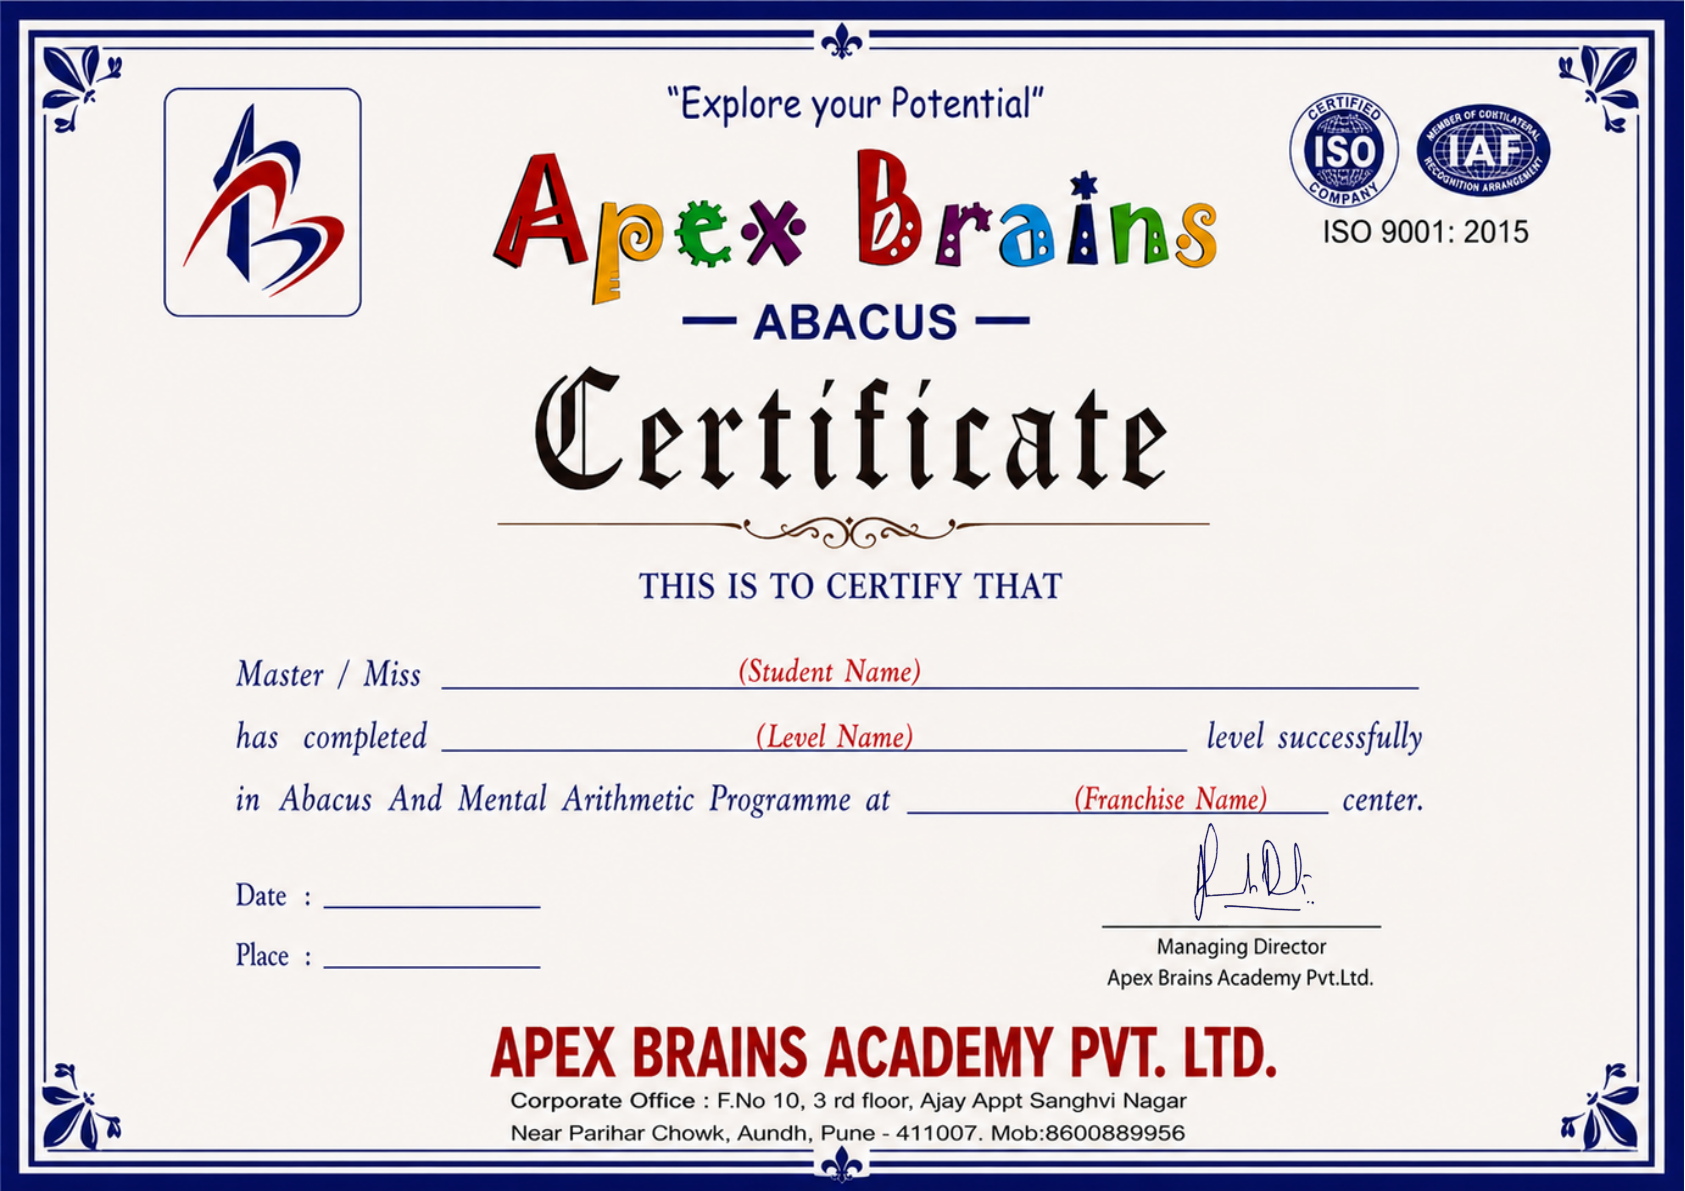
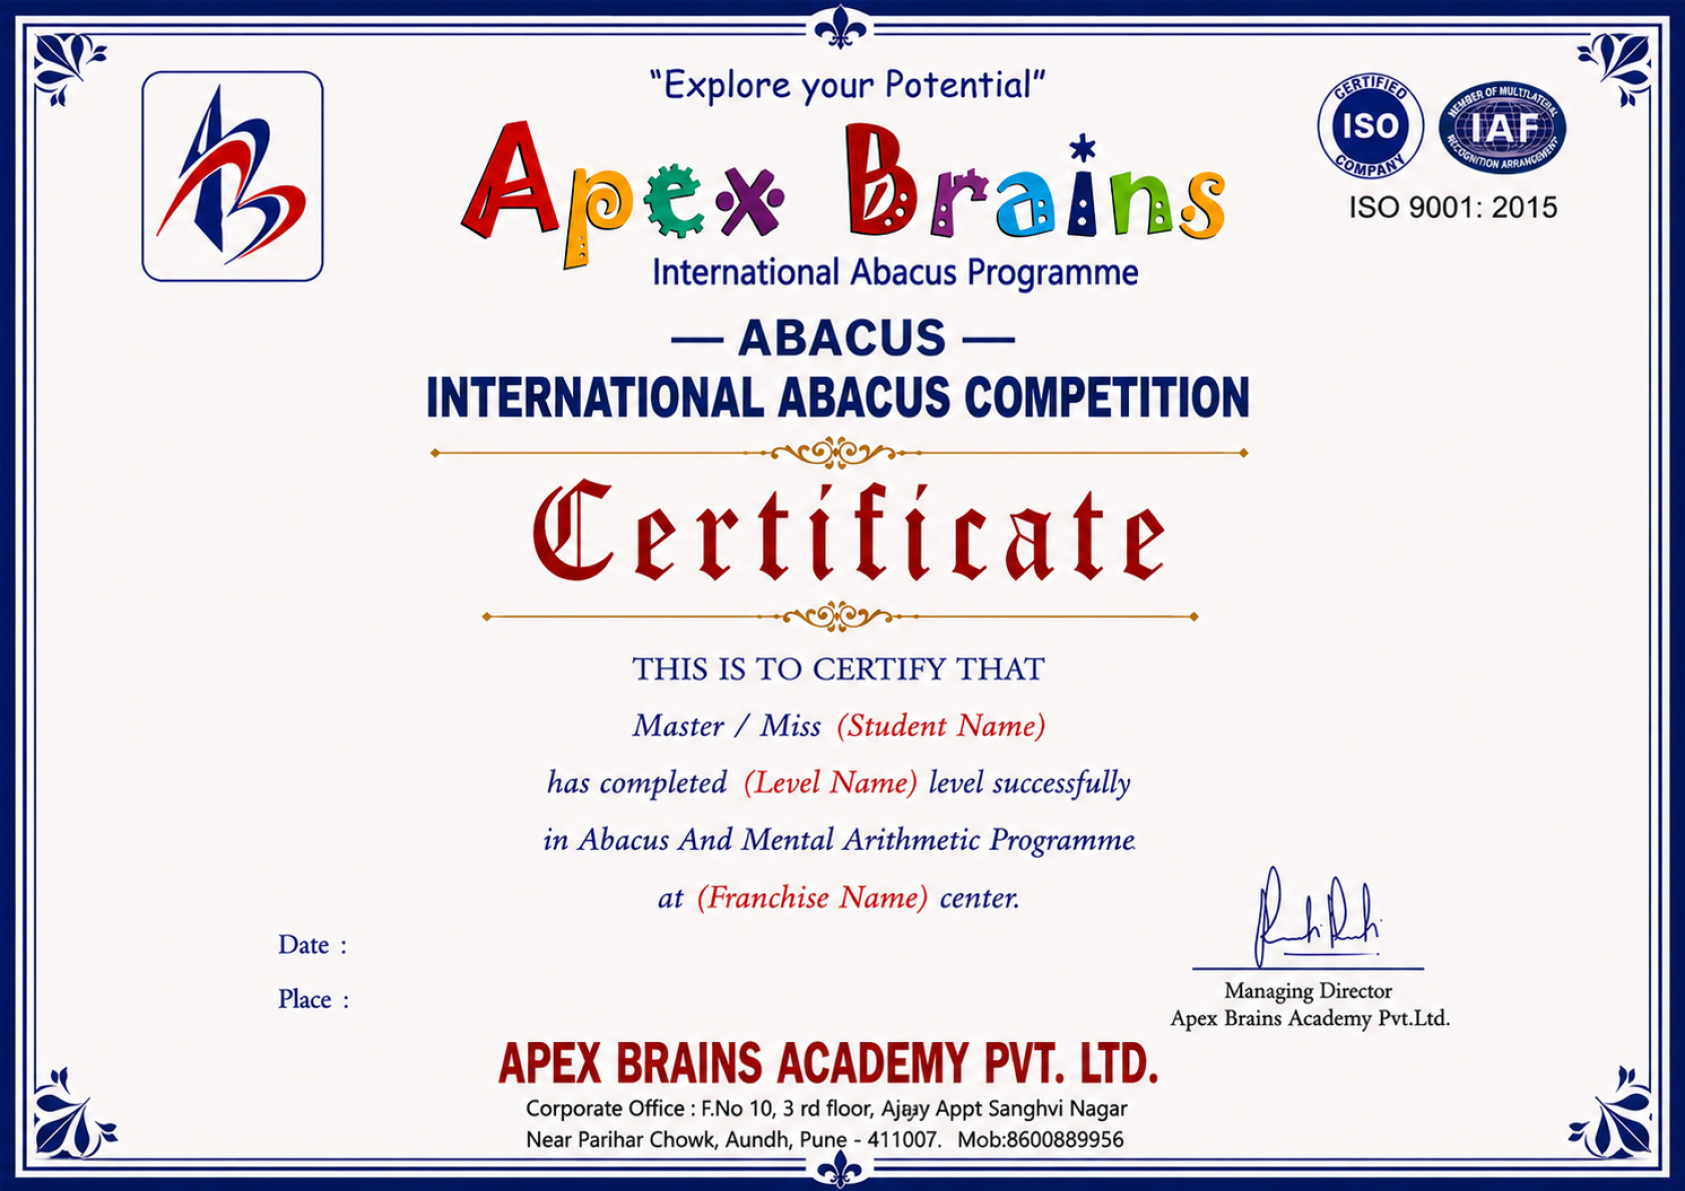
fix(certificates): replace Participation/Level-Up artwork with approved templates, recalibrate fields
Swap public/images/certificates/{participation,level-up}.png for the
client-approved reference designs (resized to the existing 1685x1191
canvas). The new layout centers each line ("Master / Miss {name}",
"studying at {franchise}", "has completed {level} level successfully",
etc.) as a single unit rather than filling a left-aligned blank, so
CertificateImageComposer now masks and redraws each full line (static
words + dynamic value together) centered as one string — this keeps
both short and long values landing dead-center with natural spacing
instead of only the value shifting inside a fixed-width box. Also drops
the now-obsolete "Centre for" trailing text on Participation (not part
of the approved design) and recalibrates every field's mask box/baseline
against the new artwork via pixel-scanning + render-verify.

diff --git a/app/Services/CertificateImageComposer.php b/app/Services/CertificateImageComposer.php
@@ -40,31 +40,25 @@ class CertificateImageComposer
         // the dynamic value ends (+ 'gap' px), so spacing stays natural — a
         // single space — no matter how long or short the value is.
         return match ($type) {
+            // Each of these lines is centered as a single unit in the approved
+            // artwork (static words + the fill-in value together), not a
+            // left-aligned blank — so the whole line is masked and redrawn as
+            // one composed string per render. That's what keeps a short name
+            // and a long name both landing dead-center with natural spacing,
+            // instead of only the value shifting inside a fixed-width blank.
             Certificate::TYPE_PARTICIPATION, Certificate::TYPE_COMPETITION => [
-                ['box' => [448, 635, 1442, 692], 'pad' => 8, 'text' => $studentName,   'font' => 'italic', 'size' => 32, 'color' => $navyItalic, 'align' => 'left'],
-                [
-                    'box' => [400, 695, 1304, 750], 'pad' => 8, 'text' => $franchiseName, 'font' => 'italic', 'size' => 30, 'color' => $navyItalic, 'align' => 'left',
-                    'trailing' => ['box' => [1311, 695, 1435, 750], 'text' => 'Centre for', 'font' => 'italic', 'size' => 30, 'color' => $navyItalic, 'gap' => 14],
-                ],
-                [
-                    'box' => [501, 753, 1209, 808], 'pad' => 8, 'text' => $levelName,     'font' => 'italic', 'size' => 30, 'color' => $navyItalic, 'align' => 'left',
-                    'trailing' => ['box' => [1215, 753, 1434, 808], 'text' => 'Level Competition', 'font' => 'italic', 'size' => 30, 'color' => $navyItalic, 'gap' => 14],
-                ],
-                ['box' => [337, 903, 679, 955],  'pad' => 8, 'text' => $dateVal,       'font' => 'italic', 'size' => 28, 'color' => $navyItalic, 'align' => 'left'],
-                ['box' => [337, 963, 679, 1015], 'pad' => 9, 'text' => $placeVal,      'font' => 'italic', 'size' => 28, 'color' => $navyItalic, 'align' => 'left'],
+                ['box' => [170, 685, 1520, 727], 'text' => 'Master / Miss ' . $studentName, 'font' => 'italic', 'size' => 32, 'color' => $navyItalic, 'align' => 'center', 'baseline' => 717],
+                ['box' => [170, 734, 1520, 774], 'text' => 'studying at ' . $franchiseName, 'font' => 'italic', 'size' => 30, 'color' => $navyItalic, 'align' => 'center', 'baseline' => 764],
+                ['box' => [170, 782, 1520, 822], 'text' => 'participating in the ' . $levelName . ' Level Competition', 'font' => 'italic', 'size' => 30, 'color' => $navyItalic, 'align' => 'center', 'baseline' => 812],
+                ['box' => [258, 944, 1050, 980],  'pad' => 20, 'text' => $dateVal,  'font' => 'italic', 'size' => 28, 'color' => $navyItalic, 'align' => 'left', 'baseline' => 971],
+                ['box' => [258, 998, 1050, 1034], 'pad' => 20, 'text' => $placeVal, 'font' => 'italic', 'size' => 28, 'color' => $navyItalic, 'align' => 'left', 'baseline' => 1026],
             ],
             Certificate::TYPE_LEVEL_UP, Certificate::TYPE_LEVEL_COMPLETION => [
-                ['box' => [433, 635, 1427, 694], 'pad' => 9, 'text' => $studentName,   'font' => 'italic', 'size' => 32, 'color' => $navyItalic, 'align' => 'left'],
-                [
-                    'box' => [433, 703, 1197, 760], 'pad' => 9, 'text' => $levelName,     'font' => 'italic', 'size' => 30, 'color' => $navyItalic, 'align' => 'left',
-                    'trailing' => ['box' => [1207, 703, 1422, 760], 'text' => 'level successfully', 'font' => 'italic', 'size' => 30, 'color' => $navyItalic, 'gap' => 14],
-                ],
-                [
-                    'box' => [899, 751, 1339, 818], 'pad' => 9, 'text' => $franchiseName, 'font' => 'italic', 'size' => 30, 'color' => $navyItalic, 'align' => 'left',
-                    'trailing' => ['box' => [1343, 751, 1422, 818], 'text' => 'center.', 'font' => 'italic', 'size' => 30, 'color' => $navyItalic, 'gap' => 14],
-                ],
-                ['box' => [315, 873, 551, 922],  'pad' => 9,  'text' => $dateVal,       'font' => 'italic', 'size' => 28, 'color' => $navyItalic, 'align' => 'left'],
-                ['box' => [316, 926, 550, 975],  'pad' => 15, 'text' => $placeVal,      'font' => 'italic', 'size' => 28, 'color' => $navyItalic, 'align' => 'left'],
+                ['box' => [170, 707, 1520, 747], 'text' => 'Master / Miss ' . $studentName, 'font' => 'italic', 'size' => 32, 'color' => $navyItalic, 'align' => 'center', 'baseline' => 737],
+                ['box' => [170, 763, 1520, 803], 'text' => 'has completed ' . $levelName . ' level successfully', 'font' => 'italic', 'size' => 30, 'color' => $navyItalic, 'align' => 'center', 'baseline' => 793],
+                ['box' => [170, 879, 1520, 919], 'text' => 'at ' . $franchiseName . ' center.', 'font' => 'italic', 'size' => 30, 'color' => $navyItalic, 'align' => 'center', 'baseline' => 909],
+                ['box' => [378, 925, 1100, 963], 'pad' => 0, 'text' => $dateVal,  'font' => 'italic', 'size' => 28, 'color' => $navyItalic, 'align' => 'left', 'baseline' => 953],
+                ['box' => [378, 975, 1100, 1013], 'pad' => 0, 'text' => $placeVal, 'font' => 'italic', 'size' => 28, 'color' => $navyItalic, 'align' => 'left', 'baseline' => 1003],
             ],
             Certificate::TYPE_CHAMPION => [
                 ['box' => [742, 1000, 1520, 1120], 'pad' => 10, 'baseline' => 1085, 'text' => $studentName,   'font' => 'bold', 'size' => 34, 'color' => $navyBold, 'align' => 'left'],
@@ -93,7 +87,7 @@ class CertificateImageComposer
         return match ($type) {
             Certificate::TYPE_CHAMPION => [250, 249, 246],
             Certificate::TYPE_WINNER => [250, 250, 250],
-            default => [248, 244, 241],
+            default => [249, 247, 245],
         };
     }
 
